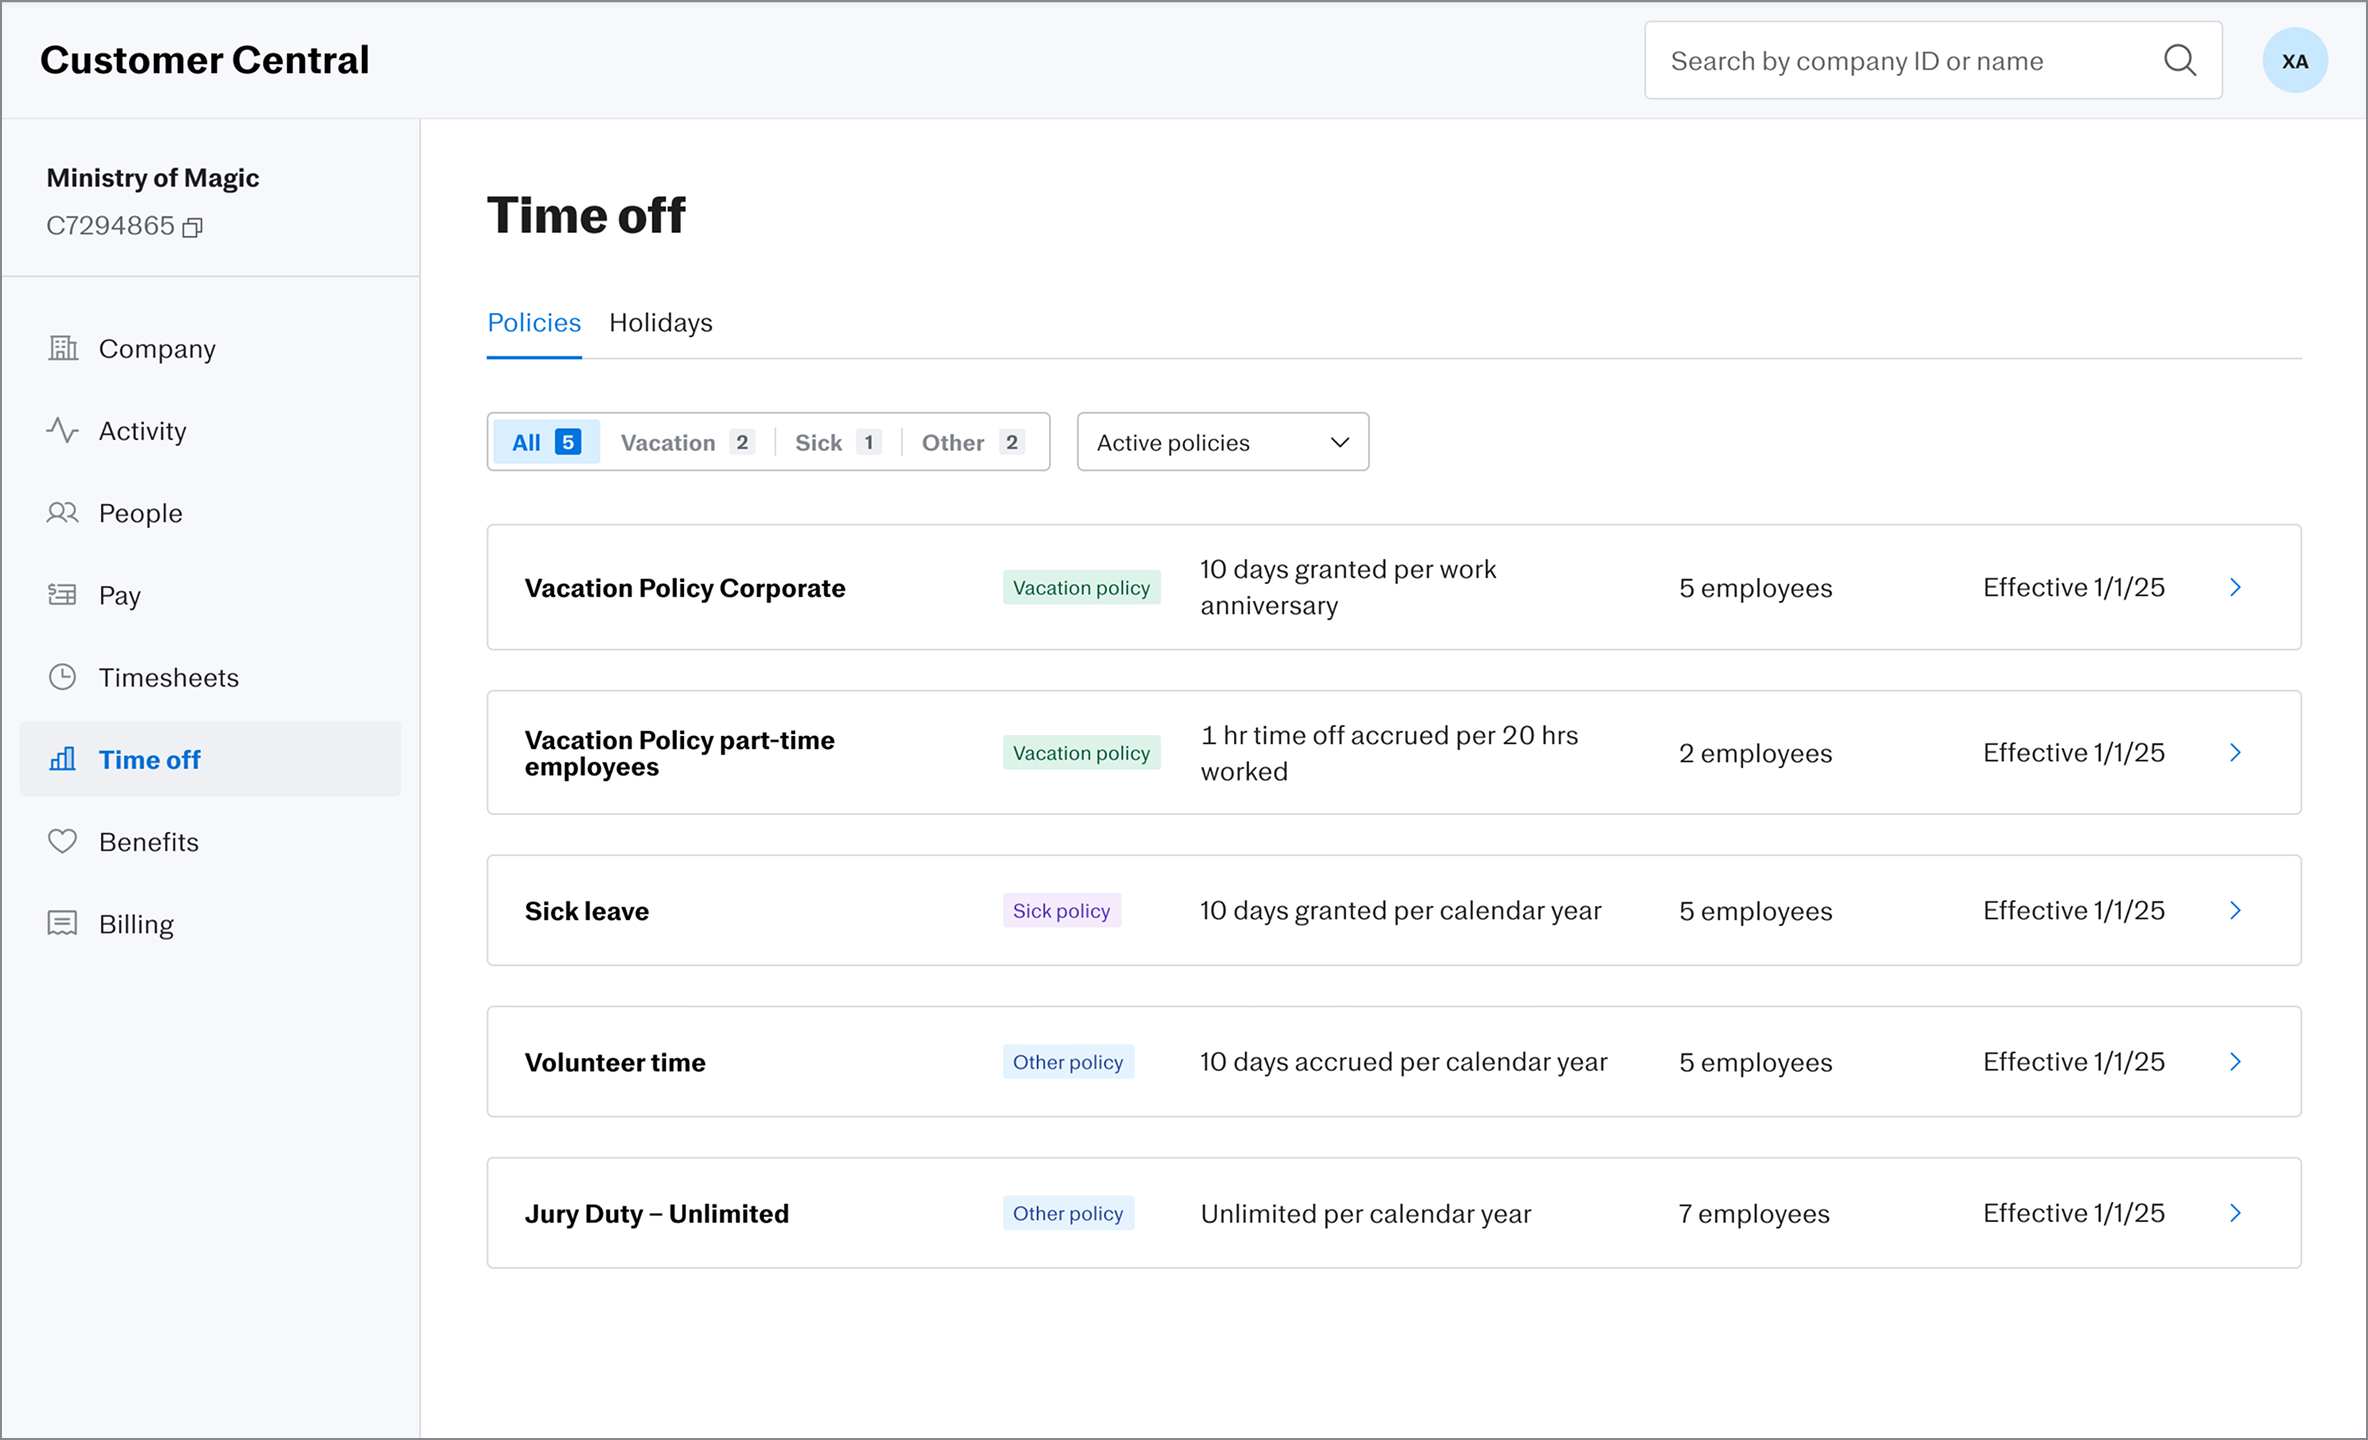
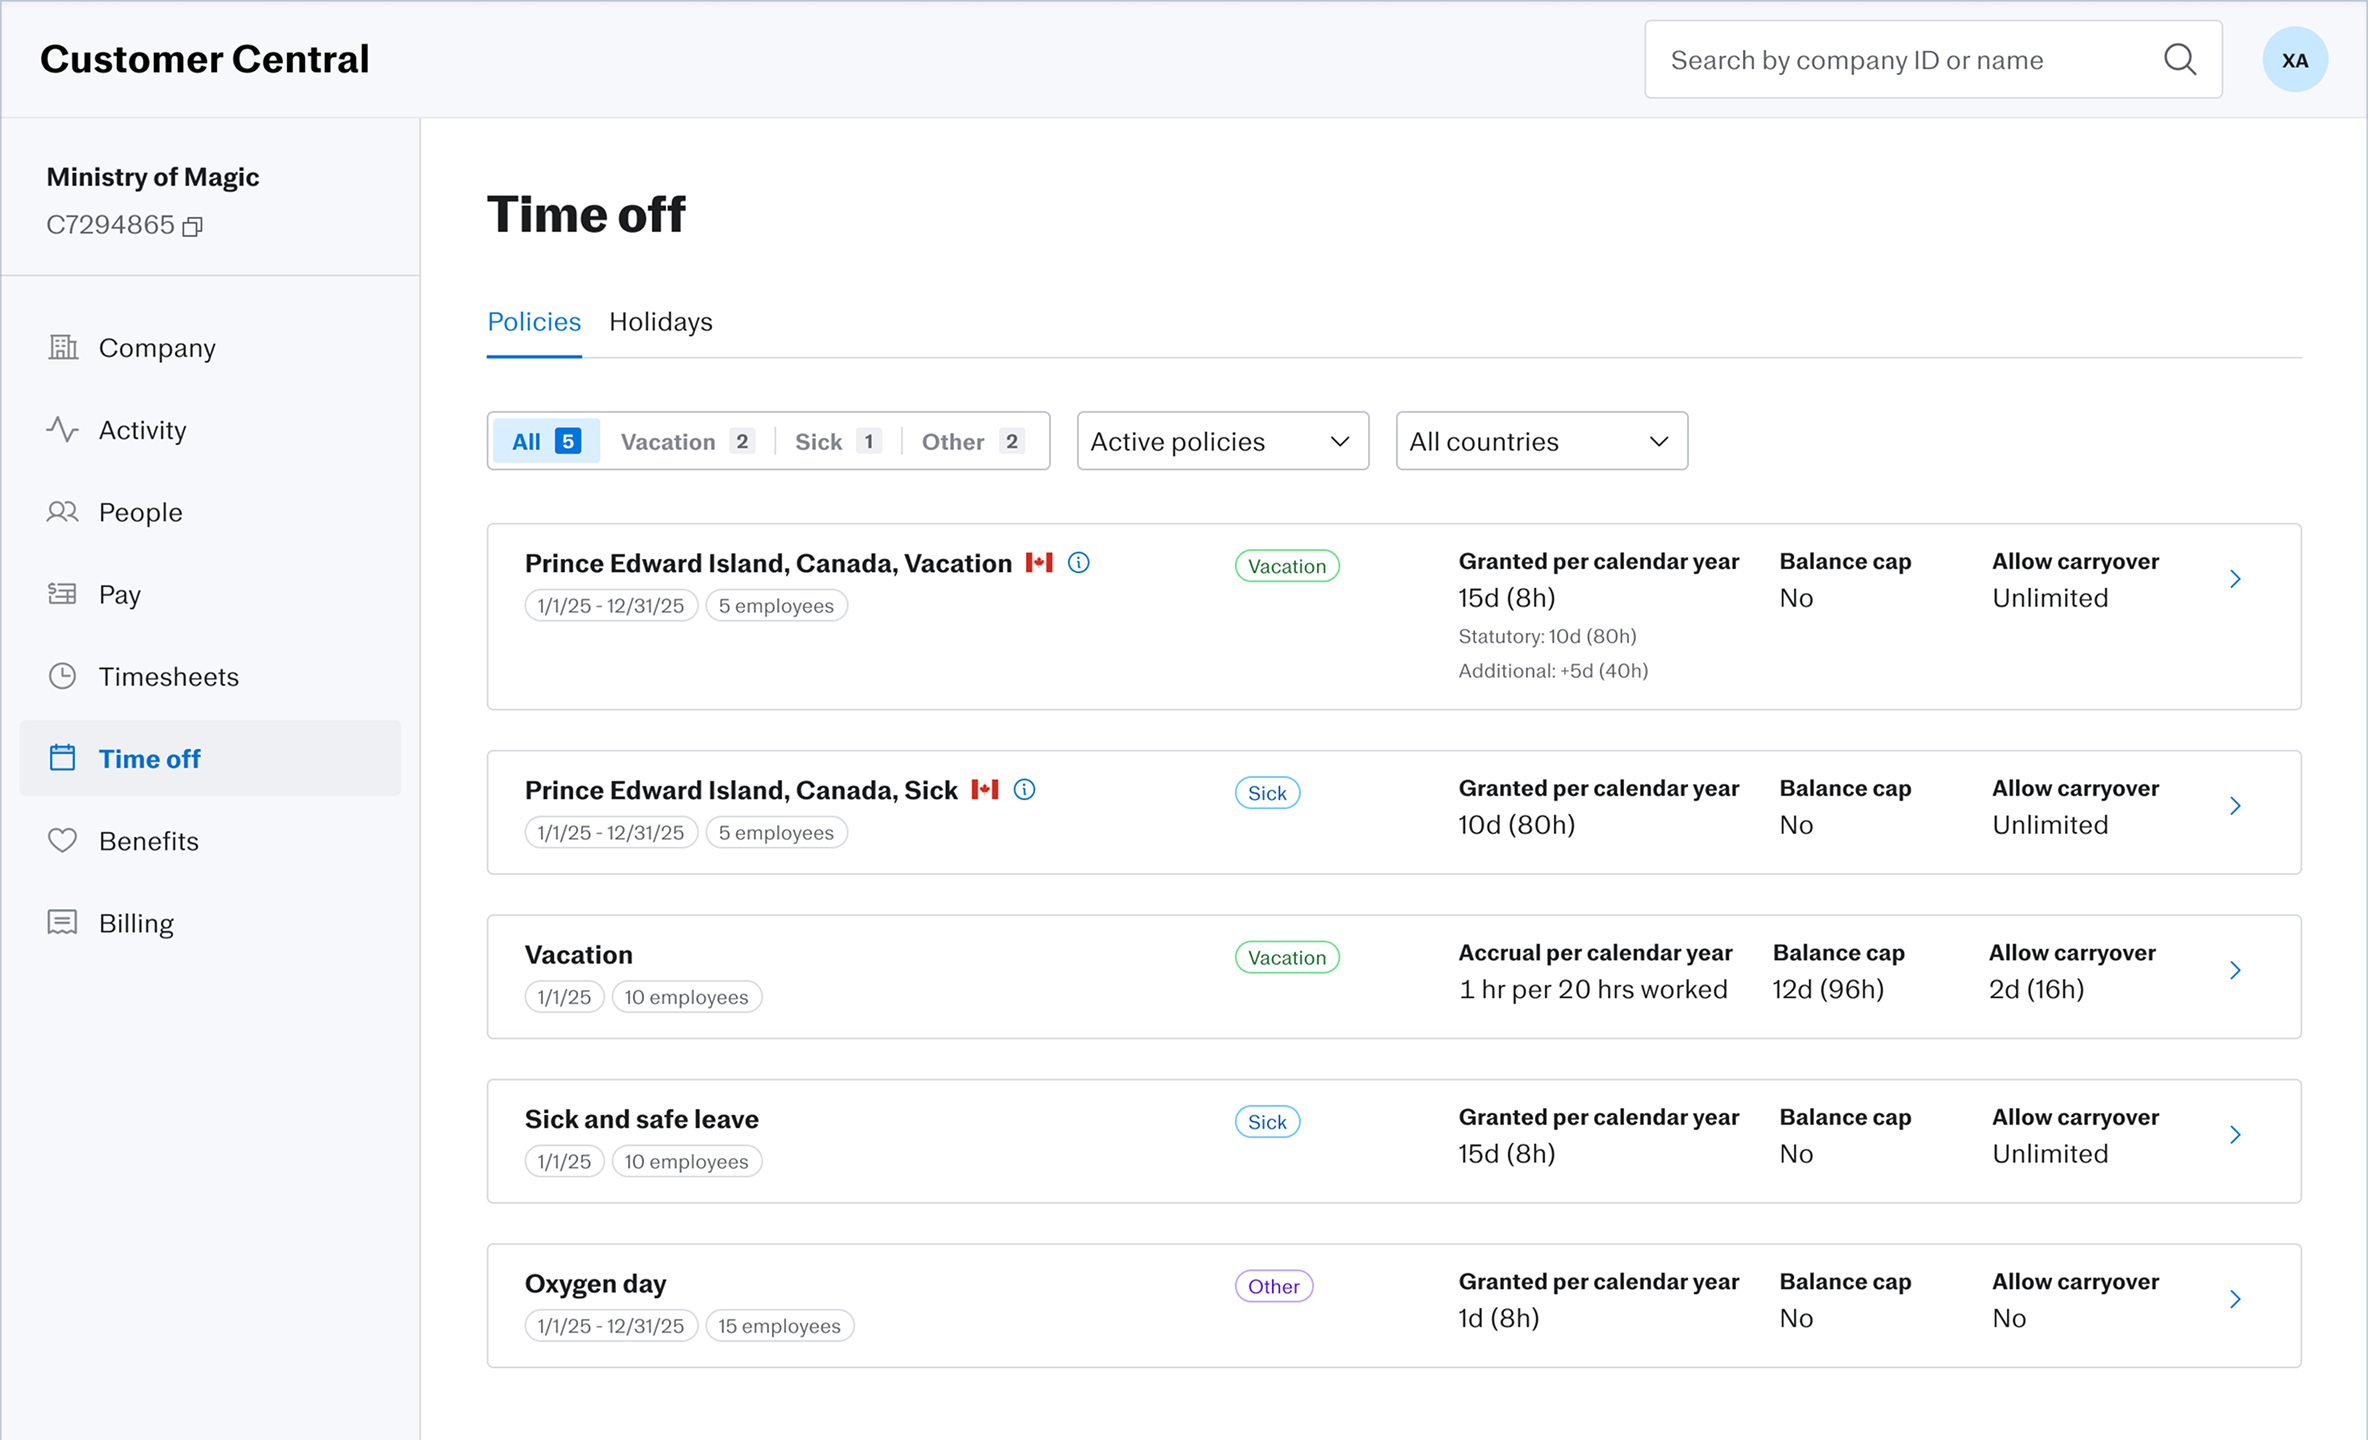
Update images Justworks Time Off Internal
Updated images and captions along with slide interations

diff --git a/portfolio/JustworksTimeOffInternal.html b/portfolio/JustworksTimeOffInternal.html
@@ -19,7 +19,7 @@
     </header>
     <main class="highlights-page">
       <section class="highlights-hero">
-        <div class="highlights-tags">
+        <div class="project-tags">
           <span>Enterprise</span>
           <span>User Research</span>
           <span>Internal Tool</span>
@@ -28,7 +28,7 @@
         <p>Transitioning 100% of CSO to a new internal experience, Customer Central, for time off tickets.</p>
       </section>
       <section class="highlights-showcase" aria-label="Customer Central Time Off workspace">
-        <button class="highlights-arrow highlights-arrow-left" aria-label="Previous image" onclick="plusHighlightSlides(-1)">&#8249;</button>
+        <button class="highlights-arrow highlights-arrow-left" aria-label="Previous image" onclick="plusHighlightSlides(-1)"><svg xmlns="http://www.w3.org/2000/svg" width="32" height="32" fill="#ffffff" viewBox="0 0 256 256" aria-hidden="true"><path d="M165.66,202.34a8,8,0,0,1-11.32,11.32l-80-80a8,8,0,0,1,0-11.32l80-80a8,8,0,0,1,11.32,11.32L91.31,128Z"></path></svg></button>
         <figure class="highlights-slide highlights-slide-active">
           <img src="img/JustworksTimeOffInternal/JustworksTimeOffInternal1.png" alt="Customer Central Time Off workspace">
           <figcaption>Company Time Off workspace within Customer Central, a new internal tool. While most companies had 1-3 policies, EOR companies as well as companies with complex tenure could have upwards of 40 policies.</figcaption>
@@ -38,10 +38,34 @@
           <figcaption>Policy details page with policy configuration and list of members assigned to the policy. Member location helps HR Consulting answer company’s questions regarding compliance.</figcaption>
         </figure>
         <figure class="highlights-slide">
-          <img src="img/JustworksTimeOffInternal/JustworksTimeOffInternal3.png" alt="Customer Central policy request details">
-          <figcaption>Time off request table and details of request.</figcaption>
+          <img src="img/JustworksTimeOffInternal/JustworksTimeOffInternal3.png" alt="Customer Central policy details expanded">
+          <figcaption>Policy details page with policy configuration expanded to show balance structure.</figcaption>
         </figure>
-        <button class="highlights-arrow highlights-arrow-right" aria-label="Next image" onclick="plusHighlightSlides(1)">&#8250;</button>
+        <figure class="highlights-slide">
+          <img src="img/JustworksTimeOffInternal/JustworksTimeOffInternal4.png" alt="Customer Central policy request details">
+          <figcaption>Requests tab on the policy details page, showing ll requests made against the policy by any member assigned to the policy. Time off request details drawers shows additional information.</figcaption>
+        </figure>
+        <figure class="highlights-slide">
+          <img src="img/JustworksTimeOffInternal/JustworksTimeOffInternal5.png" alt="Customer Central time off member view">
+          <figcaption>The member time off workspace lists all policies the member is assigned to. Instead of focusing on the time off details it highlights the balance breakdown.</figcaption>
+        </figure>
+        <figure class="highlights-slide">
+          <img src="img/JustworksTimeOffInternal/JustworksTimeOffInternal6.png" alt="Customer Central time off calculate balance tool">
+          <figcaption>Calculate balance tool on the member time off off workspace.</figcaption>
+        </figure>
+        <figure class="highlights-slide">
+          <img src="img/JustworksTimeOffInternal/JustworksTimeOffInternal7.png" alt="Customer Central time off audit information">
+          <figcaption>New balance ledge gives CSO insight into a member’s running balance for a policy over a period of time taking into account time off requests, balance adjustments, balance cap limits, and max cycle accrual limits.</figcaption>
+        </figure>
+        <figure class="highlights-slide">
+          <img src="img/JustworksTimeOffInternal/JustworksTimeOffInternal8.png" alt="Customer Central holidays">
+          <figcaption>Company holiday visibility including custom holidays and countries for which a company has an EOR (Employer of Record) employee in.</figcaption>
+        </figure>
+        <figure class="highlights-slide">
+          <img src="img/JustworksTimeOffInternal/JustworksTimeOffInternal9.png" alt="Customer Central time off audit logs">
+          <figcaption>New audit logs for time off request, time off adjustments, and custom holidays give a detailed view into all activity relating to an object.</figcaption>
+        </figure>
+        <button class="highlights-arrow highlights-arrow-right" aria-label="Next image" onclick="plusHighlightSlides(1)"><svg xmlns="http://www.w3.org/2000/svg" width="32" height="32" fill="#ffffff" viewBox="0 0 256 256" aria-hidden="true"><path d="M181.66,133.66l-80,80a8,8,0,0,1-11.32-11.32L164.69,128,90.34,53.66a8,8,0,0,1,11.32-11.32l80,80A8,8,0,0,1,181.66,133.66Z"></path></svg></button>
       </section>
       <section class="highlights-two-column">
         <div>

diff --git a/portfolio/OllieOnboardingHighlight.html b/portfolio/OllieOnboardingHighlight.html
@@ -19,7 +19,7 @@
     </header>
     <main class="highlights-page">
       <section class="highlights-hero">
-        <div class="highlights-tags">
+        <div class="project-tags">
           <span>Growth</span>
           <span>UI Design</span>
           <span>User Research</span>
@@ -28,7 +28,7 @@
         <p>Increasing acquisition funnel conversion by 10% while supporting a FE and BE replatform</p>
       </section>
       <section class="highlights-showcase" aria-label="Ollie onboarding funnel screens">
-        <button class="highlights-arrow highlights-arrow-left" aria-label="Previous image" onclick="plusHighlightSlides(-1)">&#8249;</button>
+        <button class="highlights-arrow highlights-arrow-left" aria-label="Previous image" onclick="plusHighlightSlides(-1)"><svg xmlns="http://www.w3.org/2000/svg" width="32" height="32" fill="#ffffff" viewBox="0 0 256 256" aria-hidden="true"><path d="M165.66,202.34a8,8,0,0,1-11.32,11.32l-80-80a8,8,0,0,1,0-11.32l80-80a8,8,0,0,1,11.32,11.32L91.31,128Z"></path></svg></button>
         <figure class="highlights-slide highlights-slide-active">
           <img src="img/OllieOnboardingHighlight/OllieOnboarding1.png" alt="Ollie onboarding funnel screens">
           <figcaption>The new onboarding funnel combined steps, especially at the top of the funnel, shortening the overall length of the quiz. It also made better use of Ollie's brand, inserting images into certain questions.</figcaption>
@@ -57,7 +57,7 @@
           <img src="img/OllieOnboardingHighlight/OllieOnboarding7.png" alt="Ollie onboarding final screens">
           <figcaption>While overall qualitative feedback was very positive, there were some areas highlighted in user research for the team to consider post launch for a possible future iteration.</figcaption>
         </figure>
-        <button class="highlights-arrow highlights-arrow-right" aria-label="Next image" onclick="plusHighlightSlides(1)">&#8250;</button>
+        <button class="highlights-arrow highlights-arrow-right" aria-label="Next image" onclick="plusHighlightSlides(1)"><svg xmlns="http://www.w3.org/2000/svg" width="32" height="32" fill="#ffffff" viewBox="0 0 256 256" aria-hidden="true"><path d="M181.66,133.66l-80,80a8,8,0,0,1-11.32-11.32L164.69,128,90.34,53.66a8,8,0,0,1,11.32-11.32l80,80A8,8,0,0,1,181.66,133.66Z"></path></svg></button>
       </section>
       <section class="highlights-two-column">
         <div>

diff --git a/portfolio/index.html b/portfolio/index.html
@@ -26,7 +26,7 @@
             <a href="JustworksTimeOffInternal.html" class="highlight-link">
               <img src="img/Highlight_Justworks_Time_Off_Internal.png" alt="Justworks Time Off Internal project preview">
               <h3>Justworks Time Off Internal</h3>
-              <div class="highlight-tags">
+              <div class="project-tags">
                 <span>Enterprise</span>
                 <span>User Research</span>
                 <span>Internal Tool</span>
@@ -38,7 +38,7 @@
             <a href="OllieOnboardingHighlight.html" class="highlight-link">
               <img src="img/Highlight_Ollie_Onboarding.png" alt="Ollie Onboarding project preview">
               <h3>Ollie Onboarding</h3>
-              <div class="highlight-tags">
+              <div class="project-tags">
                 <span>Growth</span>
                 <span>UI Design</span>
                 <span>User Research</span>
@@ -58,7 +58,7 @@
               </div>
               <div class="case-study-description">
                 <h3>Justworks R&amp;D Tax Credits</h3>
-                <div class="case-study-tags">
+                <div class="project-tags">
                   <span>SaaS</span>
                   <span>Content Design</span>
                   <span>Service Design</span>
@@ -74,7 +74,7 @@
               </div>
               <div class="case-study-description">
                 <h3>Fuzzy Pharmacy</h3>
-                <div class="case-study-tags">
+                <div class="project-tags">
                   <span>Management</span>
                   <span>UI Design</span>
                   <span>Mobile</span>
@@ -91,7 +91,7 @@
               </div>
               <div class="case-study-description">
                 <h3>Priceline Flight Fare Brands</h3>
-                <div class="case-study-tags">
+                <div class="project-tags">
                   <span>A/B Testing</span>
                   <span>User Research</span>
                   <span>Content Design</span>

diff --git a/portfolio/css/new.css b/portfolio/css/new.css
@@ -309,22 +309,12 @@ Highlights Case Study
 	text-align: center;
 }
 
-.highlights-tags {
+.project-tags {
 	display: flex;
 	flex-wrap: wrap;
 	gap: 4px;
 	justify-content: center;
 	margin: 0 auto 16px;
-}
-
-.highlights-tags span {
-	background: #000;
-	color: #fff;
-	font-size: 10px;
-	font-weight: 700;
-	line-height: 16px;
-	padding: 2px 6px;
-	text-transform: uppercase;
 }
 
 .highlights-page h1,
@@ -390,19 +380,33 @@ Highlights Case Study
 }
 
 .highlights-arrow {
+	align-items: center;
 	background: #000;
 	border: 0;
 	border-radius: 2px;
-	color: #fff;
-	font-size: 40px;
+	cursor: pointer;
+	display: flex;
 	height: 48px;
-	line-height: 40px;
+	justify-content: center;
 	padding: 0;
 	position: absolute;
 	top: 50%;
 	transform: translateY(-50%);
+	transition: background-color 180ms ease, box-shadow 180ms ease, transform 180ms ease;
 	width: 40px;
 	
+}
+
+.highlights-arrow:hover,
+.highlights-arrow:focus {
+	background: #333;
+	box-shadow: 0px 8px 24px rgba(0, 0, 0, 0.18);
+	transform: translateY(-50%) scale(1.04);
+}
+
+.highlights-arrow:focus {
+	outline: 2px solid #000;
+	outline-offset: 3px;
 }
 
 .highlights-arrow-left {
@@ -467,15 +471,7 @@ Case Study Pages
 	text-align: center;
 }
 
-.case-tags {
-	display: flex;
-	flex-wrap: wrap;
-	gap: 4px;
-	justify-content: center;
-	margin: 0 auto 12px;
-}
-
-.case-tags span,
+.project-tags span,
 .case-callout-label {
 	background: #000;
 	border-radius: 2px;

diff --git a/portfolio/css/main.css b/portfolio/css/main.css
@@ -243,15 +243,16 @@ Grid
   text-underline-offset: 4px;
 }
 
-.highlight-tags {
+.project-tags {
   display: flex;
   flex-wrap: wrap;
   gap: .25rem;
   padding: 0 0 .75rem;
 }
 
-.highlight-tags span {
+.project-tags span {
   background: #000;
+  border-radius: 2px;
   color: #fff;
   font-size: .625rem;
   font-weight: 700;
@@ -331,23 +332,6 @@ Grid
   font-size: 1.25rem;
   line-height: 1.75rem;
   padding: 0 0 .5rem;
-}
-
-.case-study-tags {
-  display: flex;
-  flex-wrap: wrap;
-  gap: .25rem;
-  padding: 0 0 .75rem;
-}
-
-.case-study-tags span {
-  background: #000;
-  color: #fff;
-  font-size: .625rem;
-  font-weight: 700;
-  line-height: 1rem;
-  padding: .125rem .375rem;
-  text-transform: uppercase;
 }
 
 .case-study-description p {

diff --git a/portfolio/PricelineFareFamilies.html b/portfolio/PricelineFareFamilies.html
@@ -18,7 +18,7 @@
     </header>
     <main class="case-page">
       <section class="case-hero">
-        <div class="case-tags">
+        <div class="project-tags">
           <span>A/B Testing</span>
           <span>User Research</span>
           <span>Content Design</span>

diff --git a/portfolio/JustworksTaxCredits.html b/portfolio/JustworksTaxCredits.html
@@ -18,7 +18,7 @@
     </header>
     <main class="case-page">
       <section class="case-hero">
-        <div class="case-tags">
+        <div class="project-tags">
           <span>SaaS</span>
           <span>Content Design</span>
           <span>Service Design</span>

diff --git a/portfolio/FuzzyPharmacy.html b/portfolio/FuzzyPharmacy.html
@@ -18,7 +18,7 @@
     </header>
     <main class="case-page">
       <section class="case-hero">
-        <div class="case-tags">
+        <div class="project-tags">
           <span>Management</span>
           <span>UI Design</span>
           <span>Mobile</span>
